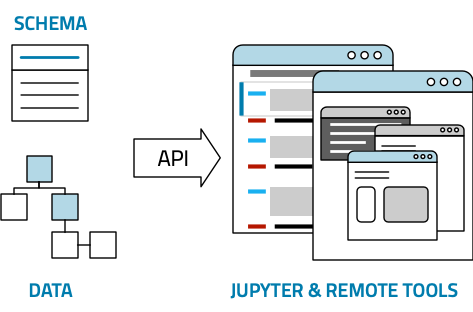
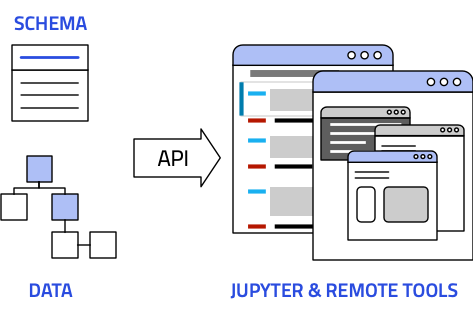
More color changes and brand adaptations.

diff --git a/src/styles.scss b/src/styles.scss
@@ -4,8 +4,8 @@ $mdc-typography-font-family: unquote("Titillium Web, sans-serif");
 
 $primary: #2A4CDF;
 $primary-on-bg: #192E86;
-$primary-bg: rgba(234,220,192, 1); // #EBDBC0;
-$primary-tint: rgba(234,220,192, 1); // #EBDBC0;
+$primary-bg: #EBDBC0;
+$primary-tint: #EBDBC0;
 
 $secondary: #008A67;
 $secondary-bg: #cce8e1;
@@ -455,10 +455,9 @@ aside {
 
 aside {
   img {
-    width: 50%;
+    width: 75%;
     padding-top: 1em;
     padding-bottom: 2em;
-    margin-left: -16px;
   }
   .mdc-list {
     font-size: 1.25em;
@@ -533,7 +532,8 @@ header {
           display: none;
         }
         img {
-          height: 72px;
+          height: 48px;
+          margin-top: 6px;
         }
       }
 
@@ -642,6 +642,13 @@ main {
     .brandname {
       font-weight: 600;
       color: $primary;
+    }
+
+    .brand-subheading {
+      font-size: 0.33em;
+      font-weight: 600;
+      color: $primary-on-bg;
+      display: none;
     }
   }
 
@@ -926,11 +933,11 @@ main {
   flex-wrap: wrap;
   align-content: center;
   justify-content: center;
-  column-gap: 2em;
-  row-gap: 2em;
+  column-gap: 1.25em;
+  row-gap: 1.25em;
   img {
     display: block;
-    height: 5em;
+    height: 3.4em;
   }
 }
 

diff --git a/src/_template.html b/src/_template.html
@@ -21,7 +21,7 @@
         <div class="mdc-drawer__content">
             <nav class="mdc-list-group">
                 <a class="mdc-list-item" href="index.html" tabindex="0">
-                    <img src="./assets/nomad.png" alt="nomad logo"/>
+                    <img src="./assets/nomad_n.png" alt="nomad logo"/>
                 </a>
                 <ul class="mdc-list" role="menu">
                     <li class="mdc-list-item" onclick="location.href = 'index.html'">
@@ -52,7 +52,7 @@
     <header class="mdc-top-app-bar--fixed nomad-app-bar">
         <div>
             <section class="title">
-                <a href="index.html"><img src="./assets/nomad.png" alt="nomad logo"/></a>
+                <a href="index.html"><img src="./assets/nomad_n.png" alt="nomad logo"/></a>
                 <button class="nomad-nav-button mdc-icon-button material-icons mdc-top-app-bar__navigation-icon mdc-top-app-bar__action-item">
                     <div class="mdc-icon-button__ripple"></div>
                     menu

diff --git a/webpack.common.js b/webpack.common.js
@@ -82,7 +82,7 @@ const mainMenus = [
       'NOMAD Lab': 'nomad-lab.html',
       'Related Projects': 'projects.html',
       'News': urls.fairmat_news,
-      'How to cite NOMAD': 'materials.html',
+      'How to cite NOMAD': 'how-to-cite.html',
       'Terms of use': 'terms.html'
     }
   }
@@ -93,7 +93,7 @@ const footerMenus = {
     'Home': 'index.html',
     'Team': '#',
     'FAIRmat': urls.fairmat,
-    'How to cite NOMAD': 'materials.html',
+    'How to cite NOMAD': 'how-to-cite.html',
     'Terms of use': 'terms.html',
     'Impressum': 'https://www.fairmat-nfdi.eu/fairmat/about-fairmat/contact-fairmat'
   },

diff --git a/src/how-to-cite.html b/src/how-to-cite.html
@@ -26,8 +26,8 @@
 <div class="nomad-title">
     <div class="title-title">How to cite NOMAD</div>
     <div class="title-description">
-        You can choose from the main NOMAD publications to cite the work behind the NOMAD
-        services, refer to this web-page, or use the NOMAD logo.
+        To acknowledge NOMAD, you can choose from our publications to cite the work behind the NOMAD
+        services, share the official links to this web-page, or use the NOMAD logo.
     </div>
     <div class="nomad-gallery nomad-gallery--2 nomad-gallery--filled">
         <div class="nomad-content nomad-paper">

diff --git a/src/index.html b/src/index.html
@@ -2,7 +2,7 @@
 <div class="nomad-hero">
     <div>
         <div class="hero-title">
-            <span class="brandname">NOMAD</span><br/>
+            <span class="brandname">NOMAD</span>&nbsp;<span class="brand-subheading">developed by FAIRmat</span><br/>
             Materials Science Data<br/>
             Managed and Shared
         </div>
